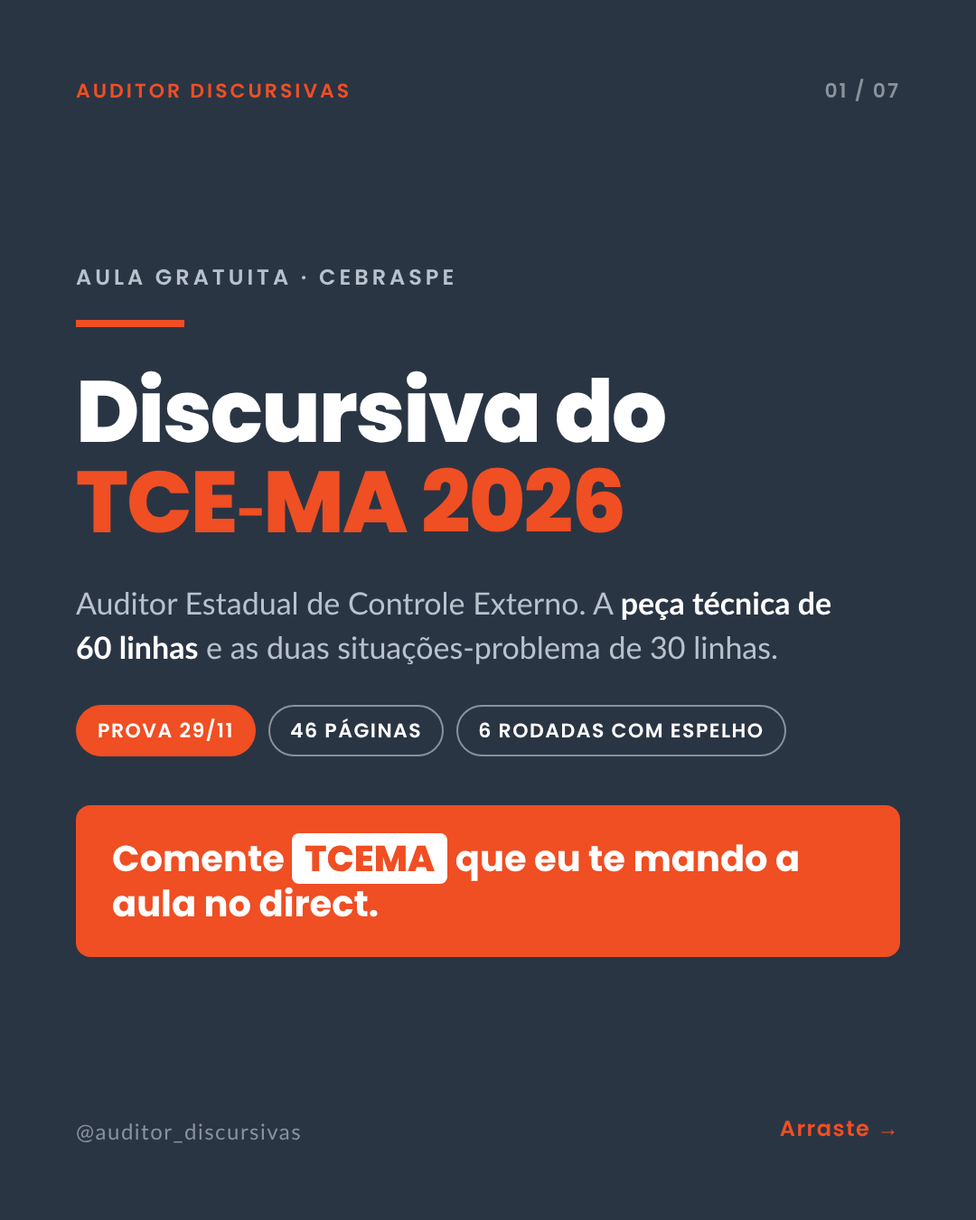
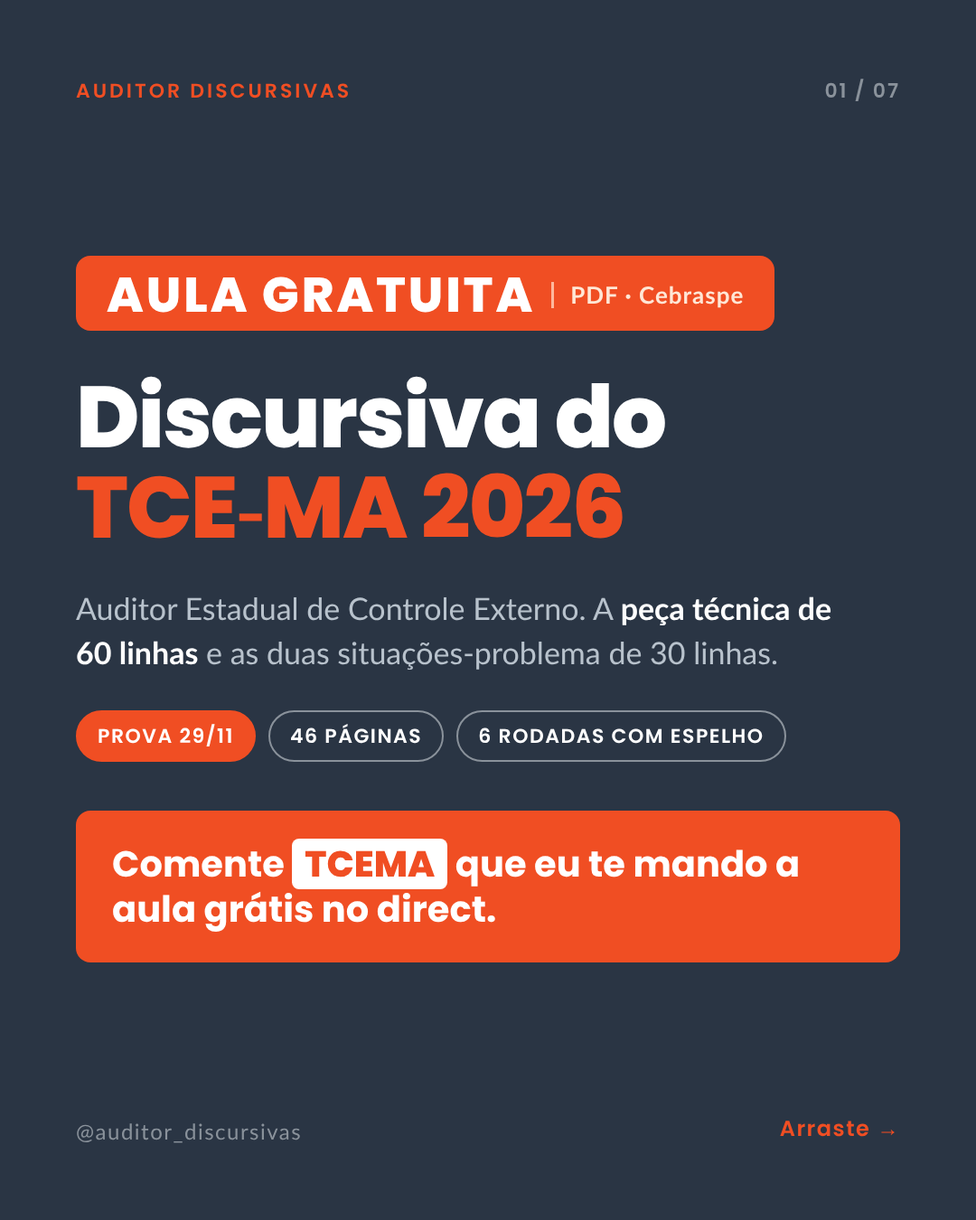
Campanhas TCDF e TCE-MA: destaque de AULA GRATUITA na capa, fecho e stories
Claude-Session: https://claude.ai/code/session_01TEsSqAR5MeunLwNBMrihJ7

diff --git a/fontes/campanhas-tcdf-tcema/carrossel_tcema.html b/fontes/campanhas-tcdf-tcema/carrossel_tcema.html
@@ -82,6 +82,8 @@ body{background:#E8EBEE;font-family:'Lato',sans-serif;padding:40px;display:flex;
 .st-box .q{font-family:'Poppins';font-weight:700;font-size:46px;color:var(--navy);line-height:1.2}
 .st-box .r{font-size:38px;color:var(--texto);margin-top:16px;line-height:1.4}
 .kw{display:inline-block;background:var(--laranja);color:#fff;font-family:'Poppins';font-weight:800;font-size:110px;letter-spacing:4px;border-radius:20px;padding:6px 44px}
+.tag{display:inline-flex;align-items:center;gap:18px;background:var(--laranja);color:#fff;font-family:'Poppins';font-weight:800;font-size:54px;letter-spacing:3px;text-transform:uppercase;border-radius:16px;padding:14px 34px 10px;line-height:1.1}
+.tag small{font-family:'Lato';font-weight:700;font-size:26px;letter-spacing:1px;text-transform:none;color:#FFE7D6;border-left:3px solid #FFB89C;padding-left:18px}
 .st-marca{position:absolute;top:140px;left:84px;right:84px;display:flex;justify-content:space-between}
 </style>
 </head>
@@ -89,12 +91,11 @@ body{background:#E8EBEE;font-family:'Lato',sans-serif;padding:40px;display:flex;
 <div class="slide dark pad" data-n="01">
   <div style="display:flex;justify-content:space-between"><div class="marca">Auditor Discursivas</div><div class="contador">01 / 07</div></div>
   <div>
-    <div class="eyebrow" style="margin-bottom:30px">Aula gratuita · Cebraspe</div>
-    <div class="rule" style="margin-bottom:44px"></div>
+    <div class="tag" style="margin-bottom:46px">Aula gratuita<small>PDF · Cebraspe</small></div>
     <div class="h1">Discursiva do <em style="white-space:nowrap">TCE&#8209;MA 2026</em></div>
     <div class="sub" style="margin-top:36px">Auditor Estadual de Controle Externo. A <b>peça técnica de 60 linhas</b> e as duas situações-problema de 30 linhas.</div>
     <div class="selo" style="margin-top:40px"><span class="on">Prova 29/11</span><span class="">46 páginas</span><span class="">6 rodadas com espelho</span></div>
-    <div class="cta" style="margin-top:54px"><div class="a">Comente <b>TCEMA</b> que eu te mando a aula no direct.</div></div>
+    <div class="cta" style="margin-top:54px"><div class="a">Comente <b>TCEMA</b> que eu te mando a aula grátis no direct.</div></div>
   </div>
   <div class="rodape"><div>@auditor_discursivas</div><div class="seta">Arraste →</div></div>
 </div>
@@ -142,7 +143,7 @@ body{background:#E8EBEE;font-family:'Lato',sans-serif;padding:40px;display:flex;
   <div class="rod-claro"><div>@auditor_discursivas</div><div class="seta">→</div></div>
 </div>
 <div class="slide" data-n="05">
-  <div class="faixa-navy"><span>Prévia da aula</span><span class="n">05 / 07</span></div>
+  <div class="faixa-navy"><span>Prévia da aula gratuita</span><span class="n">05 / 07</span></div>
   <div class="faixa-laranja">A peça de 60 linhas em quatro blocos</div>
   <div class="corpo">
 <div class="bloco"><div class="lado"></div><div class="c"><div class="h">1 · Introdução <span>“Trata-se de...”</span></div><div class="d">Objeto, fatos centrais e o que cumpre examinar · 4 a 7 linhas</div></div></div>
@@ -154,7 +155,7 @@ body{background:#E8EBEE;font-family:'Lato',sans-serif;padding:40px;display:flex;
   <div class="rod-claro"><div>@auditor_discursivas</div><div class="seta">→</div></div>
 </div>
 <div class="slide" data-n="06">
-  <div class="faixa-navy"><span>O que tem nas 46 páginas</span><span class="n">06 / 07</span></div>
+  <div class="faixa-navy"><span>Na aula gratuita · 46 páginas</span><span class="n">06 / 07</span></div>
   <div class="faixa-laranja">Do edital ao checklist do dia</div>
   <div class="corpo">
 <div class="lista">
@@ -170,10 +171,10 @@ body{background:#E8EBEE;font-family:'Lato',sans-serif;padding:40px;display:flex;
 <div class="slide dark pad" data-n="07">
   <div style="display:flex;justify-content:space-between"><div class="marca">Auditor Discursivas</div><div class="contador">07 / 07</div></div>
   <div>
-    <div class="rule" style="margin-bottom:40px"></div>
+    <div class="tag" style="margin-bottom:44px">Aula gratuita<small>em PDF, no seu direct</small></div>
     <div class="h1" style="font-size:76px">Quatro blocos.<br>Um parágrafo por item.<br><em>Nota acima de 20.</em></div>
     <div class="cta" style="margin-top:54px">
-      <div class="a">Comente <b>TCEMA</b> aqui embaixo e a aula chega no seu direct.</div>
+      <div class="a">Comente <b>TCEMA</b> aqui embaixo e a aula gratuita chega no seu direct.</div>
       <div class="b">Depois da prova, se a nota não vier, me manda <b style="color:#fff">RECURSO</b> no direct. A análise de viabilidade é gratuita.</div>
     </div>
     <div style="display:flex;align-items:center;gap:28px;margin-top:54px">

diff --git a/fontes/campanhas-tcdf-tcema/carrossel_tcdf.html b/fontes/campanhas-tcdf-tcema/carrossel_tcdf.html
@@ -82,6 +82,8 @@ body{background:#E8EBEE;font-family:'Lato',sans-serif;padding:40px;display:flex;
 .st-box .q{font-family:'Poppins';font-weight:700;font-size:46px;color:var(--navy);line-height:1.2}
 .st-box .r{font-size:38px;color:var(--texto);margin-top:16px;line-height:1.4}
 .kw{display:inline-block;background:var(--laranja);color:#fff;font-family:'Poppins';font-weight:800;font-size:110px;letter-spacing:4px;border-radius:20px;padding:6px 44px}
+.tag{display:inline-flex;align-items:center;gap:18px;background:var(--laranja);color:#fff;font-family:'Poppins';font-weight:800;font-size:54px;letter-spacing:3px;text-transform:uppercase;border-radius:16px;padding:14px 34px 10px;line-height:1.1}
+.tag small{font-family:'Lato';font-weight:700;font-size:26px;letter-spacing:1px;text-transform:none;color:#FFE7D6;border-left:3px solid #FFB89C;padding-left:18px}
 .st-marca{position:absolute;top:140px;left:84px;right:84px;display:flex;justify-content:space-between}
 </style>
 </head>
@@ -89,12 +91,11 @@ body{background:#E8EBEE;font-family:'Lato',sans-serif;padding:40px;display:flex;
 <div class="slide dark pad" data-n="01">
   <div style="display:flex;justify-content:space-between"><div class="marca">Auditor Discursivas</div><div class="contador">01 / 07</div></div>
   <div>
-    <div class="eyebrow" style="margin-bottom:30px">Aula gratuita · Cebraspe</div>
-    <div class="rule" style="margin-bottom:44px"></div>
+    <div class="tag" style="margin-bottom:46px">Aula gratuita<small>PDF · Cebraspe</small></div>
     <div class="h1">Discursiva do <em>TCDF 2026</em></div>
     <div class="sub" style="margin-top:36px">Analista Administrativo de Controle Externo. A questão de 20 linhas e a <b>Informação de 50 linhas</b>, no padrão do Manual do TCDF.</div>
     <div class="selo" style="margin-top:40px"><span class="on">Prova 22/11</span><span class="">40 páginas</span><span class="">5 rodadas com espelho</span></div>
-    <div class="cta" style="margin-top:54px"><div class="a">Comente <b>TCDF</b> que eu te mando a aula no direct.</div></div>
+    <div class="cta" style="margin-top:54px"><div class="a">Comente <b>TCDF</b> que eu te mando a aula grátis no direct.</div></div>
   </div>
   <div class="rodape"><div>@auditor_discursivas</div><div class="seta">Arraste →</div></div>
 </div>
@@ -128,7 +129,7 @@ body{background:#E8EBEE;font-family:'Lato',sans-serif;padding:40px;display:flex;
   <div class="rod-claro"><div>@auditor_discursivas</div><div class="seta">→</div></div>
 </div>
 <div class="slide" data-n="04">
-  <div class="faixa-navy"><span>Prévia da aula</span><span class="n">04 / 07</span></div>
+  <div class="faixa-navy"><span>Prévia da aula gratuita</span><span class="n">04 / 07</span></div>
   <div class="faixa-laranja">A moldura da Informação, na ordem</div>
   <div class="corpo">
 <div class="folha">
@@ -149,7 +150,7 @@ body{background:#E8EBEE;font-family:'Lato',sans-serif;padding:40px;display:flex;
   <div class="rod-claro"><div>@auditor_discursivas</div><div class="seta">→</div></div>
 </div>
 <div class="slide" data-n="05">
-  <div class="faixa-navy"><span>O que tem nas 40 páginas</span><span class="n">05 / 07</span></div>
+  <div class="faixa-navy"><span>Na aula gratuita · 40 páginas</span><span class="n">05 / 07</span></div>
   <div class="faixa-laranja">Do edital ao checklist do dia</div>
   <div class="corpo">
 <div class="lista">
@@ -179,10 +180,10 @@ body{background:#E8EBEE;font-family:'Lato',sans-serif;padding:40px;display:flex;
 <div class="slide dark pad" data-n="07">
   <div style="display:flex;justify-content:space-between"><div class="marca">Auditor Discursivas</div><div class="contador">07 / 07</div></div>
   <div>
-    <div class="rule" style="margin-bottom:40px"></div>
+    <div class="tag" style="margin-bottom:44px">Aula gratuita<small>em PDF, no seu direct</small></div>
     <div class="h1" style="font-size:76px">Moldura decorada.<br>Um parágrafo por item.<br><em>Nota acima de 30.</em></div>
     <div class="cta" style="margin-top:54px">
-      <div class="a">Comente <b>TCDF</b> aqui embaixo e a aula chega no seu direct.</div>
+      <div class="a">Comente <b>TCDF</b> aqui embaixo e a aula gratuita chega no seu direct.</div>
       <div class="b">Depois da prova, se a nota não vier, me manda <b style="color:#fff">RECURSO</b> no direct. A análise de viabilidade é gratuita.</div>
     </div>
     <div style="display:flex;align-items:center;gap:28px;margin-top:54px">

diff --git a/fontes/campanhas-tcdf-tcema/stories_tcema.html b/fontes/campanhas-tcdf-tcema/stories_tcema.html
@@ -82,21 +82,23 @@ body{background:#E8EBEE;font-family:'Lato',sans-serif;padding:40px;display:flex;
 .st-box .q{font-family:'Poppins';font-weight:700;font-size:46px;color:var(--navy);line-height:1.2}
 .st-box .r{font-size:38px;color:var(--texto);margin-top:16px;line-height:1.4}
 .kw{display:inline-block;background:var(--laranja);color:#fff;font-family:'Poppins';font-weight:800;font-size:110px;letter-spacing:4px;border-radius:20px;padding:6px 44px}
+.tag{display:inline-flex;align-items:center;gap:18px;background:var(--laranja);color:#fff;font-family:'Poppins';font-weight:800;font-size:54px;letter-spacing:3px;text-transform:uppercase;border-radius:16px;padding:14px 34px 10px;line-height:1.1}
+.tag small{font-family:'Lato';font-weight:700;font-size:26px;letter-spacing:1px;text-transform:none;color:#FFE7D6;border-left:3px solid #FFB89C;padding-left:18px}
 .st-marca{position:absolute;top:140px;left:84px;right:84px;display:flex;justify-content:space-between}
 </style>
 </head>
 <body>
 <div class="story" data-n="st01">
   <div class="st-marca"><div class="marca">Auditor Discursivas</div><div class="contador">@auditor_discursivas</div></div>
-  <div class="st-in"><div class="eyebrow">Aula gratuita · TCE-MA 2026</div>
+  <div class="st-in"><div><span class="tag">Aula gratuita<small>TCE-MA 2026</small></span></div>
 <div class="st-h">Vai fazer a discursiva do <em style="white-space:nowrap">TCE&#8209;MA</em>?</div>
-<div class="st-p">Preparei uma aula de <b>46 páginas</b> para o Auditor: a <b>peça de 60 linhas</b>, as duas situações-problema e <b>6 rodadas</b> com espelho e resposta completa.</div></div>
+<div class="st-p">Preparei uma aula <b>grátis</b>, em PDF, de <b>46 páginas</b> para o Auditor: a <b>peça de 60 linhas</b>, as duas situações-problema e <b>6 rodadas</b> com espelho e resposta completa.</div></div>
 </div>
 <div class="story" data-n="st02">
   <div class="st-marca"><div class="marca">Auditor Discursivas</div><div class="contador">@auditor_discursivas</div></div>
   <div class="st-in"><div class="st-h">É só comentar</div>
 <div><span class="kw">TCEMA</span></div>
-<div class="st-p">no post mais recente do feed. A aula chega no seu <b>direct</b> na hora.</div>
+<div class="st-p">no post mais recente do feed. A <b>aula gratuita</b> chega no seu <b>direct</b> na hora.</div>
 <div class="st-box"><div class="q">Não chegou?</div><div class="r">Confira em <b>Solicitações de mensagem</b> no direct.</div></div></div>
 </div>
 <div class="story" data-n="st03">
@@ -104,7 +106,7 @@ body{background:#E8EBEE;font-family:'Lato',sans-serif;padding:40px;display:flex;
   <div class="st-in"><div class="eyebrow">Você sabia?</div>
 <div class="st-h">A peça vale <em>metade</em> da discursiva.</div>
 <div class="st-p">São <b>20 dos 40 pontos</b>, o mesmo que dez questões de conhecimentos específicos. E ela tem esqueleto: quatro blocos que dá para treinar.</div>
-<div class="st-box"><div class="q">Comente TCEMA no post</div><div class="r">e receba a aula com as 6 rodadas.</div></div></div>
+<div class="st-box"><div class="q">Comente TCEMA no post</div><div class="r">e receba grátis a aula com as 6 rodadas.</div></div></div>
 </div>
 </body>
 </html>

diff --git a/fontes/campanhas-tcdf-tcema/stories_tcdf.html b/fontes/campanhas-tcdf-tcema/stories_tcdf.html
@@ -82,21 +82,23 @@ body{background:#E8EBEE;font-family:'Lato',sans-serif;padding:40px;display:flex;
 .st-box .q{font-family:'Poppins';font-weight:700;font-size:46px;color:var(--navy);line-height:1.2}
 .st-box .r{font-size:38px;color:var(--texto);margin-top:16px;line-height:1.4}
 .kw{display:inline-block;background:var(--laranja);color:#fff;font-family:'Poppins';font-weight:800;font-size:110px;letter-spacing:4px;border-radius:20px;padding:6px 44px}
+.tag{display:inline-flex;align-items:center;gap:18px;background:var(--laranja);color:#fff;font-family:'Poppins';font-weight:800;font-size:54px;letter-spacing:3px;text-transform:uppercase;border-radius:16px;padding:14px 34px 10px;line-height:1.1}
+.tag small{font-family:'Lato';font-weight:700;font-size:26px;letter-spacing:1px;text-transform:none;color:#FFE7D6;border-left:3px solid #FFB89C;padding-left:18px}
 .st-marca{position:absolute;top:140px;left:84px;right:84px;display:flex;justify-content:space-between}
 </style>
 </head>
 <body>
 <div class="story" data-n="st01">
   <div class="st-marca"><div class="marca">Auditor Discursivas</div><div class="contador">@auditor_discursivas</div></div>
-  <div class="st-in"><div class="eyebrow">Aula gratuita · TCDF 2026</div>
+  <div class="st-in"><div><span class="tag">Aula gratuita<small>TCDF 2026</small></span></div>
 <div class="st-h">Vai fazer a discursiva do <em>TCDF</em>?</div>
-<div class="st-p">Preparei uma aula de <b>40 páginas</b> para o Analista: a questão de 20 linhas, a <b>Informação de 50</b> e <b>5 rodadas</b> com espelho e resposta completa.</div></div>
+<div class="st-p">Preparei uma aula <b>grátis</b>, em PDF, de <b>40 páginas</b> para o Analista: a questão de 20 linhas, a <b>Informação de 50</b> e <b>5 rodadas</b> com espelho e resposta completa.</div></div>
 </div>
 <div class="story" data-n="st02">
   <div class="st-marca"><div class="marca">Auditor Discursivas</div><div class="contador">@auditor_discursivas</div></div>
   <div class="st-in"><div class="st-h">É só comentar</div>
 <div><span class="kw">TCDF</span></div>
-<div class="st-p">no post mais recente do feed. A aula chega no seu <b>direct</b> na hora.</div>
+<div class="st-p">no post mais recente do feed. A <b>aula gratuita</b> chega no seu <b>direct</b> na hora.</div>
 <div class="st-box"><div class="q">Não chegou?</div><div class="r">Confira em <b>Solicitações de mensagem</b> no direct.</div></div></div>
 </div>
 <div class="story" data-n="st03">
@@ -104,7 +106,7 @@ body{background:#E8EBEE;font-family:'Lato',sans-serif;padding:40px;display:flex;
   <div class="st-in"><div class="eyebrow">Você sabia?</div>
 <div class="st-h">A forma da Informação <em>vale ponto</em>.</div>
 <div class="st-p">No espelho do TCDF 2023, os dados do processo tiveram um quesito de <b>0 a 6</b> só para eles. A moldura é fixa: dá para decorar.</div>
-<div class="st-box"><div class="q">Comente TCDF no post</div><div class="r">e receba a moldura completa, elemento por elemento.</div></div></div>
+<div class="st-box"><div class="q">Comente TCDF no post</div><div class="r">e receba grátis a aula com a moldura completa, elemento por elemento.</div></div></div>
 </div>
 </body>
 </html>

diff --git a/fontes/campanhas-tcdf-tcema/gerar.py b/fontes/campanhas-tcdf-tcema/gerar.py
@@ -81,6 +81,8 @@ body{background:#E8EBEE;font-family:'Lato',sans-serif;padding:40px;display:flex;
 .st-box .q{font-family:'Poppins';font-weight:700;font-size:46px;color:var(--navy);line-height:1.2}
 .st-box .r{font-size:38px;color:var(--texto);margin-top:16px;line-height:1.4}
 .kw{display:inline-block;background:var(--laranja);color:#fff;font-family:'Poppins';font-weight:800;font-size:110px;letter-spacing:4px;border-radius:20px;padding:6px 44px}
+.tag{display:inline-flex;align-items:center;gap:18px;background:var(--laranja);color:#fff;font-family:'Poppins';font-weight:800;font-size:54px;letter-spacing:3px;text-transform:uppercase;border-radius:16px;padding:14px 34px 10px;line-height:1.1}
+.tag small{font-family:'Lato';font-weight:700;font-size:26px;letter-spacing:1px;text-transform:none;color:#FFE7D6;border-left:3px solid #FFB89C;padding-left:18px}
 .st-marca{position:absolute;top:140px;left:84px;right:84px;display:flex;justify-content:space-between}
 """
 
@@ -92,12 +94,11 @@ def capa(n, tot, eyebrow, titulo, sub, selos, kw):
     return f'''<div class="slide dark pad" data-n="{n:02d}">
   <div style="display:flex;justify-content:space-between"><div class="marca">Auditor Discursivas</div><div class="contador">{n:02d} / {tot:02d}</div></div>
   <div>
-    <div class="eyebrow" style="margin-bottom:30px">{eyebrow}</div>
-    <div class="rule" style="margin-bottom:44px"></div>
+    <div class="tag" style="margin-bottom:46px">Aula gratuita<small>{eyebrow}</small></div>
     <div class="h1">{titulo}</div>
     <div class="sub" style="margin-top:36px">{sub}</div>
     <div class="selo" style="margin-top:40px">{s}</div>
-    <div class="cta" style="margin-top:54px"><div class="a">Comente <b>{kw}</b> que eu te mando a aula no direct.</div></div>
+    <div class="cta" style="margin-top:54px"><div class="a">Comente <b>{kw}</b> que eu te mando a aula grátis no direct.</div></div>
   </div>
   <div class="rodape"><div>@auditor_discursivas</div><div class="seta">Arraste →</div></div>
 </div>
@@ -116,10 +117,10 @@ def fecho(n, tot, frase, kw, linha_recurso):
     return f'''<div class="slide dark pad" data-n="{n:02d}">
   <div style="display:flex;justify-content:space-between"><div class="marca">Auditor Discursivas</div><div class="contador">{n:02d} / {tot:02d}</div></div>
   <div>
-    <div class="rule" style="margin-bottom:40px"></div>
+    <div class="tag" style="margin-bottom:44px">Aula gratuita<small>em PDF, no seu direct</small></div>
     <div class="h1" style="font-size:76px">{frase}</div>
     <div class="cta" style="margin-top:54px">
-      <div class="a">Comente <b>{kw}</b> aqui embaixo e a aula chega no seu direct.</div>
+      <div class="a">Comente <b>{kw}</b> aqui embaixo e a aula gratuita chega no seu direct.</div>
       <div class="b">{linha_recurso}</div>
     </div>
     <div style="display:flex;align-items:center;gap:28px;margin-top:54px">
@@ -143,7 +144,7 @@ def story(n, corpo):
 # =================== TCDF ===================
 T = 7
 tcdf = head('Campanha TCDF 2026 — carrossel') + capa(1, T,
-    'Aula gratuita · Cebraspe',
+    'PDF · Cebraspe',
     'Discursiva do <em>TCDF 2026</em>',
     'Analista Administrativo de Controle Externo. A questão de 20 linhas e a <b>Informação de 50 linhas</b>, no padrão do Manual do TCDF.',
     ['Prova 22/11', '40 páginas', '5 rodadas com espelho'], 'TCDF')
@@ -169,7 +170,7 @@ tcdf += conteudo(3, T, 'O que pouca gente aproveita', 'A forma da Informação v
 <div class="dica" style="margin-top:20px;border-top:none;padding-top:0"><div class="dica-rot">Fonte</div><div class="dica-txt">Padrão de resposta definitivo do Cebraspe, TCDF 2023, Analista. Mesmo cargo, mesma peça.</div></div>
 ''')
 
-tcdf += conteudo(4, T, 'Prévia da aula', 'A moldura da Informação, na ordem', '''
+tcdf += conteudo(4, T, 'Prévia da aula gratuita', 'A moldura da Informação, na ordem', '''
 <div class="folha">
   <div><span class="hl">Informação n.º ......./..... – (sigla)</span></div>
   <div class="r"><span class="hl">Brasília, 22 de novembro de 2026.</span></div>
@@ -186,7 +187,7 @@ tcdf += conteudo(4, T, 'Prévia da aula', 'A moldura da Informação, na ordem',
 <div class="txt" style="font-size:30px;margin-top:22px;color:var(--cinza)">Na aula, cada elemento vem explicado, com o que vale ponto no espelho.</div>
 ''')
 
-tcdf += conteudo(5, T, 'O que tem nas 40 páginas', 'Do edital ao checklist do dia', '''
+tcdf += conteudo(5, T, 'Na aula gratuita · 40 páginas', 'Do edital ao checklist do dia', '''
 <div class="lista">
   <div><span class="ok">✓</span><span class="q"><b>Raio-X do edital</b> e de como o Cebraspe corrige<small>Fórmula, descontos de língua e o que zera ou anula</small></span></div>
   <div><span class="ok">✓</span><span class="q">O que a banca <b>já cobrou no TCDF</b><small>Provas e padrões de 2021, 2023 e 2024</small></span></div>
@@ -212,24 +213,24 @@ tcdf += '</body>\n</html>\n'
 (OUT / 'carrossel_tcdf.html').write_text(tcdf, encoding='utf-8')
 
 st_tcdf = head('Campanha TCDF 2026 — stories')
-st_tcdf += story(1, '''<div class="eyebrow">Aula gratuita · TCDF 2026</div>
+st_tcdf += story(1, '''<div><span class="tag">Aula gratuita<small>TCDF 2026</small></span></div>
 <div class="st-h">Vai fazer a discursiva do <em>TCDF</em>?</div>
-<div class="st-p">Preparei uma aula de <b>40 páginas</b> para o Analista: a questão de 20 linhas, a <b>Informação de 50</b> e <b>5 rodadas</b> com espelho e resposta completa.</div>''')
+<div class="st-p">Preparei uma aula <b>grátis</b>, em PDF, de <b>40 páginas</b> para o Analista: a questão de 20 linhas, a <b>Informação de 50</b> e <b>5 rodadas</b> com espelho e resposta completa.</div>''')
 st_tcdf += story(2, '''<div class="st-h">É só comentar</div>
 <div><span class="kw">TCDF</span></div>
-<div class="st-p">no post mais recente do feed. A aula chega no seu <b>direct</b> na hora.</div>
+<div class="st-p">no post mais recente do feed. A <b>aula gratuita</b> chega no seu <b>direct</b> na hora.</div>
 <div class="st-box"><div class="q">Não chegou?</div><div class="r">Confira em <b>Solicitações de mensagem</b> no direct.</div></div>''')
 st_tcdf += story(3, '''<div class="eyebrow">Você sabia?</div>
 <div class="st-h">A forma da Informação <em>vale ponto</em>.</div>
 <div class="st-p">No espelho do TCDF 2023, os dados do processo tiveram um quesito de <b>0 a 6</b> só para eles. A moldura é fixa: dá para decorar.</div>
-<div class="st-box"><div class="q">Comente TCDF no post</div><div class="r">e receba a moldura completa, elemento por elemento.</div></div>''')
+<div class="st-box"><div class="q">Comente TCDF no post</div><div class="r">e receba grátis a aula com a moldura completa, elemento por elemento.</div></div>''')
 st_tcdf += '</body>\n</html>\n'
 (OUT / 'stories_tcdf.html').write_text(st_tcdf, encoding='utf-8')
 
 # =================== TCE-MA ===================
 T = 7
 ma = head('Campanha TCE-MA 2026 — carrossel') + capa(1, T,
-    'Aula gratuita · Cebraspe',
+    'PDF · Cebraspe',
     'Discursiva do <em style="white-space:nowrap">TCE&#8209;MA 2026</em>',
     'Auditor Estadual de Controle Externo. A <b>peça técnica de 60 linhas</b> e as duas situações-problema de 30 linhas.',
     ['Prova 29/11', '46 páginas', '6 rodadas com espelho'], 'TCEMA')
@@ -265,7 +266,7 @@ ma += conteudo(4, T, 'O que está quente no Maranhão', 'Seis temas no radar do 
 <div class="txt" style="font-size:28px;color:var(--cinza);margin-top:16px">Cada um vira uma rodada completa na aula.</div>
 ''')
 
-ma += conteudo(5, T, 'Prévia da aula', 'A peça de 60 linhas em quatro blocos', '''
+ma += conteudo(5, T, 'Prévia da aula gratuita', 'A peça de 60 linhas em quatro blocos', '''
 <div class="bloco"><div class="lado"></div><div class="c"><div class="h">1 · Introdução <span>“Trata-se de...”</span></div><div class="d">Objeto, fatos centrais e o que cumpre examinar · 4 a 7 linhas</div></div></div>
 <div class="bloco"><div class="lado"></div><div class="c"><div class="h">2 · Análise <span>“Quanto ao...”</span></div><div class="d">Um parágrafo por item, com veredito, norma, fato e consequência · cerca de 70%</div></div></div>
 <div class="bloco"><div class="lado"></div><div class="c"><div class="h">3 · Conclusão <span>“Em conclusão,...”</span></div><div class="d">Retoma cada análise em meia linha. Nada novo · 3 a 5 linhas</div></div></div>
@@ -273,7 +274,7 @@ ma += conteudo(5, T, 'Prévia da aula', 'A peça de 60 linhas em quatro blocos',
 <div class="dica" style="margin-top:14px"><div class="dica-rot">Regra</div><div class="dica-txt">Nunca invente prazo: <b>“no prazo a ser fixado pelo Tribunal”</b>.</div></div>
 ''')
 
-ma += conteudo(6, T, 'O que tem nas 46 páginas', 'Do edital ao checklist do dia', '''
+ma += conteudo(6, T, 'Na aula gratuita · 46 páginas', 'Do edital ao checklist do dia', '''
 <div class="lista">
   <div><span class="ok">✓</span><span class="q"><b>Raio-X do edital</b> e de como o Cebraspe corrige<small>Fórmula, descontos de língua e quem tem a prova corrigida</small></span></div>
   <div><span class="ok">✓</span><span class="q">O que a banca <b>já cobrou em controle</b><small>12 provas, de TCU 2015 a TCE-MS 2025</small></span></div>
@@ -289,17 +290,17 @@ ma += '</body>\n</html>\n'
 (OUT / 'carrossel_tcema.html').write_text(ma, encoding='utf-8')
 
 st_ma = head('Campanha TCE-MA 2026 — stories')
-st_ma += story(1, '''<div class="eyebrow">Aula gratuita · TCE-MA 2026</div>
+st_ma += story(1, '''<div><span class="tag">Aula gratuita<small>TCE-MA 2026</small></span></div>
 <div class="st-h">Vai fazer a discursiva do <em style="white-space:nowrap">TCE&#8209;MA</em>?</div>
-<div class="st-p">Preparei uma aula de <b>46 páginas</b> para o Auditor: a <b>peça de 60 linhas</b>, as duas situações-problema e <b>6 rodadas</b> com espelho e resposta completa.</div>''')
+<div class="st-p">Preparei uma aula <b>grátis</b>, em PDF, de <b>46 páginas</b> para o Auditor: a <b>peça de 60 linhas</b>, as duas situações-problema e <b>6 rodadas</b> com espelho e resposta completa.</div>''')
 st_ma += story(2, '''<div class="st-h">É só comentar</div>
 <div><span class="kw">TCEMA</span></div>
-<div class="st-p">no post mais recente do feed. A aula chega no seu <b>direct</b> na hora.</div>
+<div class="st-p">no post mais recente do feed. A <b>aula gratuita</b> chega no seu <b>direct</b> na hora.</div>
 <div class="st-box"><div class="q">Não chegou?</div><div class="r">Confira em <b>Solicitações de mensagem</b> no direct.</div></div>''')
 st_ma += story(3, '''<div class="eyebrow">Você sabia?</div>
 <div class="st-h">A peça vale <em>metade</em> da discursiva.</div>
 <div class="st-p">São <b>20 dos 40 pontos</b>, o mesmo que dez questões de conhecimentos específicos. E ela tem esqueleto: quatro blocos que dá para treinar.</div>
-<div class="st-box"><div class="q">Comente TCEMA no post</div><div class="r">e receba a aula com as 6 rodadas.</div></div>''')
+<div class="st-box"><div class="q">Comente TCEMA no post</div><div class="r">e receba grátis a aula com as 6 rodadas.</div></div>''')
 st_ma += '</body>\n</html>\n'
 (OUT / 'stories_tcema.html').write_text(st_ma, encoding='utf-8')
 print('ok')
